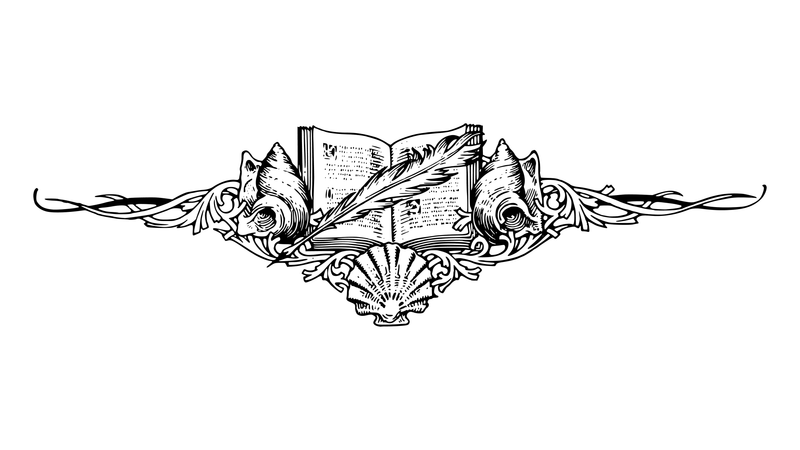
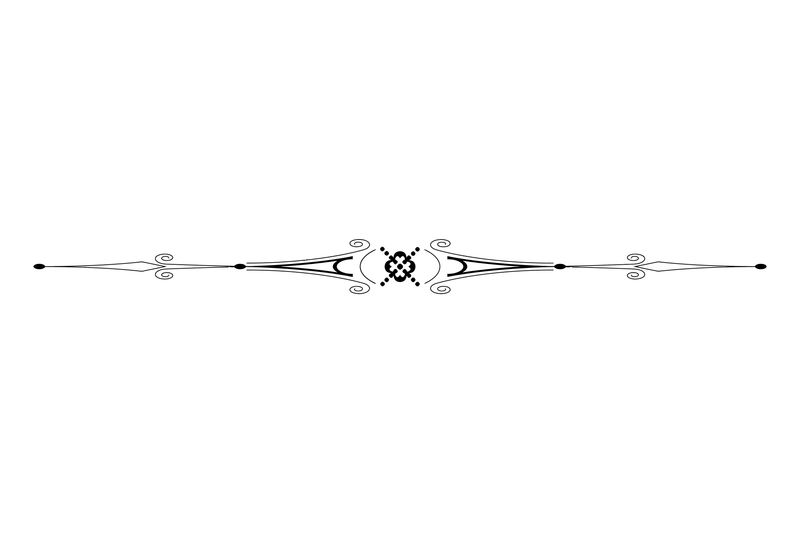
feat: update GoldDivider component to support parchment variant and improve image handling

Changed region(s): [[0.0312, 0.28, 0.9688, 0.7467]]

diff --git a/src/components/comment/CommentItem.tsx b/src/components/comment/CommentItem.tsx
@@ -13,7 +13,7 @@ import {
   ChevronUp,
 } from 'lucide-react';
 import type { CommentWithAuthor } from '@/types/database.types';
-import { formatRelativeDate, formatMarkdownWithAutoLinks, getAvatarFallback } from '@/lib/utils';
+import { formatRelativeDate, processHtmlAutoLinks, getAvatarFallback } from '@/lib/utils';
 import { Badge } from '@/components/ui/Badge';
 import { Button } from '@/components/ui/Button';
 import { UserPopover } from '@/components/user/UserPopover';
@@ -64,15 +64,20 @@ export function CommentItem({
 
   const renderedHtml = useMemo(() => {
     if (!comment.content.trim()) return '';
-    const autoLinked = formatMarkdownWithAutoLinks(comment.content);
-    const rawHtml = marked.parse(autoLinked, {
+    
+    // 1. Convert plain text and bare URLs to standard HTML & <a> tags
+    const rawHtml = marked.parse(comment.content, {
       async: false,
       gfm: true,
       breaks: true,
     }) as string;
 
+    // 2. Intercept those <a> tags and morph them into embeds via our optimized util
+    const embeddedHtml = processHtmlAutoLinks(rawHtml);
+
+    // 3. Sanitize for security
     if (typeof window !== 'undefined') {
-      return DOMPurify.sanitize(rawHtml, {
+      return DOMPurify.sanitize(embeddedHtml, {
         ADD_TAGS: ['iframe', 'video'],
         ADD_ATTR: [
           'allow',
@@ -85,7 +90,7 @@ export function CommentItem({
         ],
       });
     }
-    return rawHtml;
+    return embeddedHtml;
   }, [comment.content]);
 
   return (
@@ -143,7 +148,6 @@ export function CommentItem({
           </div>
         </div>
 
-        {/* Removed whitespace-pre-line to fix the huge gap bug */}
         <div
           className="text-[15px] sm:text-base text-[#e8dcc4] leading-relaxed [overflow-wrap:anywhere] lore-content"
           dangerouslySetInnerHTML={{ __html: renderedHtml }}

diff --git a/src/components/ui/Badge.tsx b/src/components/ui/Badge.tsx
@@ -47,30 +47,37 @@ interface GoldDividerProps {
   className?: string;
 }
 
+interface GoldDividerProps {
+  variant?: 'gold' | 'parchment';
+  className?: string;
+}
+
 export function GoldDivider({
   variant = 'gold',
   className,
 }: GoldDividerProps) {
   if (variant === 'parchment') {
     return (
-      <div className={cn('my-6 flex justify-center select-none', className)}>
+      <div className={cn('my-6 flex justify-center w-full select-none', className)}>
         <img
           src="/assets/images/parchment-divider.png"
           alt=""
           aria-hidden="true"
-          className="h-20 sm:h-28 w-full max-w-3xl object-contain mix-blend-multiply opacity-90"
+          // object-cover acts as a native CSS crop. It forces the image into this 
+          // exact bounding box, chopping off the invisible top/bottom padding.
+          className="w-64 sm:w-96 h-8 sm:h-12 object-cover object-center mix-blend-multiply opacity-90 pointer-events-none"
         />
       </div>
     );
   }
 
   return (
-    <div className={cn('my-6 flex justify-center select-none', className)}>
+    <div className={cn('my-6 flex justify-center w-full select-none', className)}>
       <img
         src="/assets/images/divider-gold.png"
         alt=""
         aria-hidden="true"
-        className="h-16 sm:h-24 w-full max-w-3xl object-contain mix-blend-screen opacity-95"
+        className="w-64 sm:w-96 h-8 sm:h-12 object-cover object-center mix-blend-screen opacity-95 pointer-events-none"
       />
     </div>
   );
